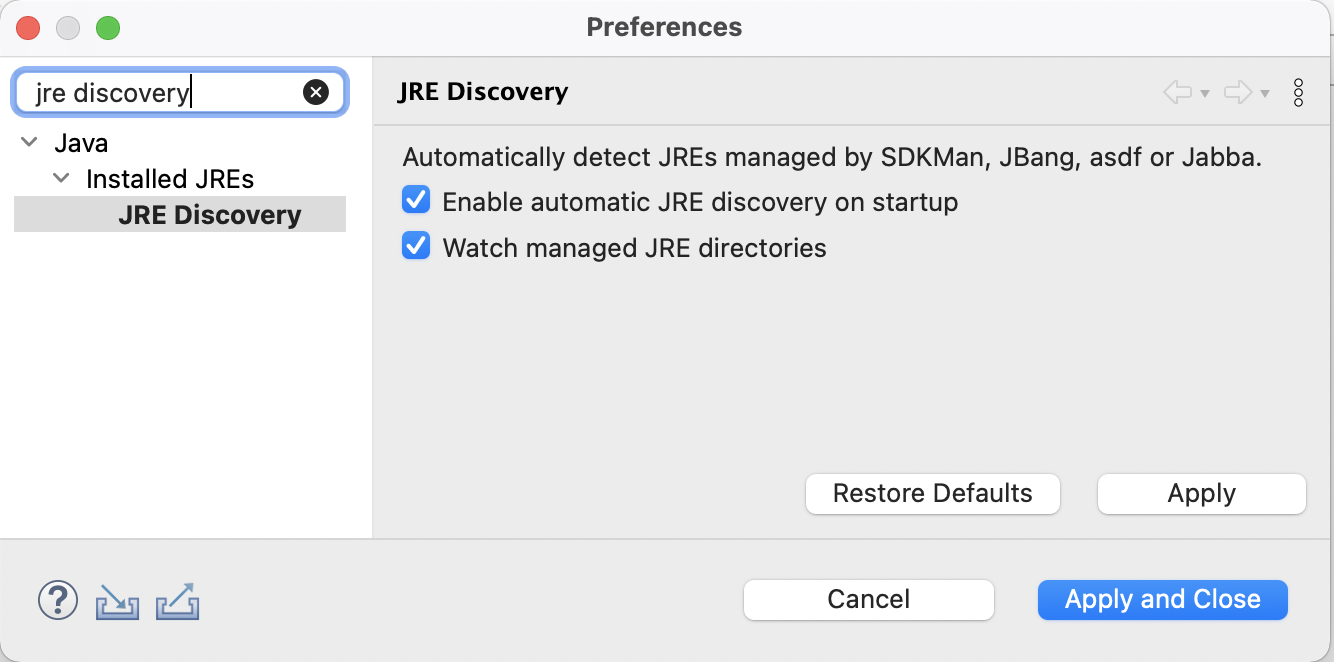
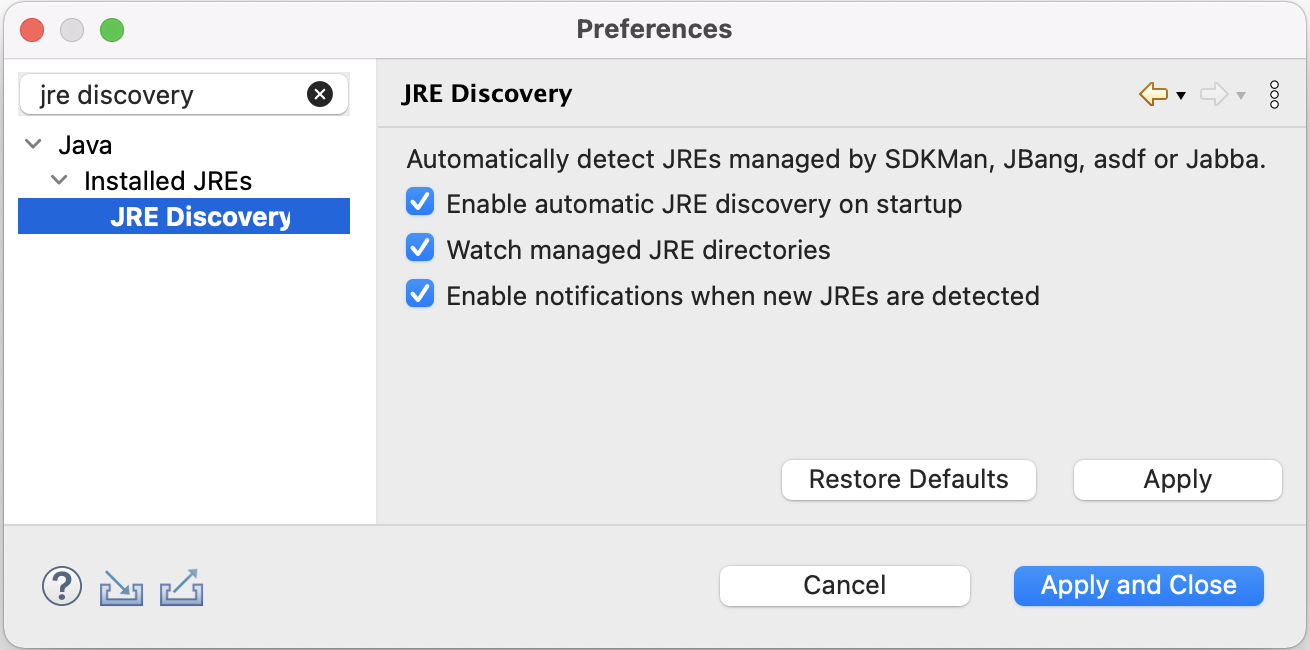
Add preference to display notifications. See #1

diff --git a/io.sidespin.jre.discovery.ui/src/main/java/io/sidespin/eclipse/jre/discovery/ui/internal/ManagedVMNotificationAggregatorJob.java b/io.sidespin.jre.discovery.ui/src/main/java/io/sidespin/eclipse/jre/discovery/ui/internal/ManagedVMNotificationAggregatorJob.java
@@ -24,21 +24,27 @@ import org.eclipse.core.runtime.Status;
 import org.eclipse.core.runtime.jobs.Job;
 import org.eclipse.jdt.launching.IVMInstall;
 import org.eclipse.jface.notifications.AbstractNotificationPopup;
+import org.eclipse.jface.preference.IPreferenceStore;
 import org.eclipse.swt.SWT;
+import org.eclipse.swt.layout.GridLayout;
 import org.eclipse.swt.widgets.Composite;
 import org.eclipse.swt.widgets.Display;
 import org.eclipse.swt.widgets.Label;
 
+import io.sidespin.eclipse.jre.discovery.core.internal.preferences.JREDiscoveryPreferences;
+
 public class ManagedVMNotificationAggregatorJob extends Job {
 
-	// private static final String JAVA_VM_PREFERENCES_PAGE_ID =
-	// "org.eclipse.jdt.debug.ui.preferences.VMPreferencePage";
+	//private static final String JAVA_VM_PREFERENCES_PAGE_ID = "org.eclipse.jdt.debug.ui.preferences.VMPreferencePage";
 
 	private static final long DELAY = 1000;
 	private final Set<IVMInstall> notifications = new LinkedHashSet<>();
 
-	public ManagedVMNotificationAggregatorJob() {
+	private IPreferenceStore preferenceStore;
+
+	public ManagedVMNotificationAggregatorJob(IPreferenceStore preferenceStore ) {
 		super("Managed VM notification aggregator");
+		this.preferenceStore = preferenceStore;
 	}
 
 	@Override
@@ -54,7 +60,9 @@ public class ManagedVMNotificationAggregatorJob extends Job {
 			currentQueue = new LinkedHashSet<>(this.notifications);
 			notifications.clear();
 		}
-		if (currentQueue.isEmpty()) {
+		boolean enabled = preferenceStore.getBoolean(JREDiscoveryPreferences.NOTIFICATIONS_ENABLED_KEY);
+		
+		if (!enabled || currentQueue.isEmpty()) {
 			return Status.OK_STATUS;
 		}
 
@@ -103,6 +111,8 @@ public class ManagedVMNotificationAggregatorJob extends Job {
 
 		@Override
 		protected void createContentArea(Composite parent) {
+			parent.setLayout(new GridLayout(1, false));
+
 			Label label = new Label(parent, SWT.WRAP);
 			if (vms.size() > 1) {
 				label.setText(vms.size() + " new Java VMs were automatically added.");
@@ -110,11 +120,10 @@ public class ManagedVMNotificationAggregatorJob extends Job {
 				var name = vms.iterator().next().getName();
 				label.setText(name + " was automatically added.");
 			}
-			// label.addSelectionListener(SelectionListener.widgetSelectedAdapter(e -> {
-			// PreferencesUtil.createPreferenceDialogOn(Display.getDefault().getActiveShell(),
-			// JAVA_VM_PREFERENCES_PAGE_ID, new String[] { JAVA_VM_PREFERENCES_PAGE_ID },
-			// null).open();
-			// }));
+//			label.addSelectionListener(SelectionListener.widgetSelectedAdapter(e -> {
+//				PreferencesUtil.createPreferenceDialogOn(getShell(),
+//						JAVA_VM_PREFERENCES_PAGE_ID, new String[] { JAVA_VM_PREFERENCES_PAGE_ID }, null).open();
+//			}));
 		}
 	}
 }

diff --git a/io.sidespin.jre.discovery.core/src/main/java/io/sidespin/eclipse/jre/discovery/core/internal/preferences/JREDiscoveryPreferenceInitializer.java b/io.sidespin.jre.discovery.core/src/main/java/io/sidespin/eclipse/jre/discovery/core/internal/preferences/JREDiscoveryPreferenceInitializer.java
@@ -15,7 +15,6 @@
 package io.sidespin.eclipse.jre.discovery.core.internal.preferences;
 
 import org.eclipse.core.runtime.preferences.AbstractPreferenceInitializer;
-import org.eclipse.core.runtime.preferences.DefaultScope;
 import org.eclipse.core.runtime.preferences.IEclipsePreferences;
 import org.eclipse.core.runtime.preferences.InstanceScope;
 
@@ -32,5 +31,6 @@ public class JREDiscoveryPreferenceInitializer extends AbstractPreferenceInitial
 	    IEclipsePreferences store = InstanceScope.INSTANCE.getNode(Constants.PLUGIN_ID);
 	    store.putBoolean(JREDiscoveryPreferences.ENABLED_ON_STARTUP_KEY, true);
 	    store.putBoolean(JREDiscoveryPreferences.WATCH_JRE_DIRECTORIES_KEY, true);
+	    store.putBoolean(JREDiscoveryPreferences.NOTIFICATIONS_ENABLED_KEY, true);
 	  }
 }

diff --git a/io.sidespin.jre.discovery.core/src/main/java/io/sidespin/eclipse/jre/discovery/core/internal/VMDetectorManager.java b/io.sidespin.jre.discovery.core/src/main/java/io/sidespin/eclipse/jre/discovery/core/internal/VMDetectorManager.java
@@ -25,10 +25,8 @@ import org.eclipse.core.runtime.Assert;
 import org.eclipse.core.runtime.IProgressMonitor;
 import org.eclipse.core.runtime.NullProgressMonitor;
 import org.eclipse.core.runtime.SubMonitor;
-import org.eclipse.core.runtime.preferences.IEclipsePreferences;
 import org.eclipse.core.runtime.preferences.IEclipsePreferences.IPreferenceChangeListener;
 import org.eclipse.core.runtime.preferences.IEclipsePreferences.PreferenceChangeEvent;
-import org.eclipse.core.runtime.preferences.InstanceScope;
 
 import io.sidespin.eclipse.jre.discovery.core.IManagedVMDetector;
 import io.sidespin.eclipse.jre.discovery.core.IManagedVMWatcher;

diff --git a/io.sidespin.jre.discovery.ui/src/main/java/io/sidespin/eclipse/jre/discovery/ui/internal/ManagedVMUIActivator.java b/io.sidespin.jre.discovery.ui/src/main/java/io/sidespin/eclipse/jre/discovery/ui/internal/ManagedVMUIActivator.java
@@ -34,7 +34,7 @@ public class ManagedVMUIActivator implements BundleActivator {
   public void start(BundleContext context) throws Exception {
 	//HACK trigger the core plugin activation by calling a method from its activator
     System.err.println("Starting " + ManagedVMCorePlugin.getUniqueIdentifier());
-    notificationJob = new ManagedVMNotificationAggregatorJob();
+    notificationJob = new ManagedVMNotificationAggregatorJob(getPreferenceStore());
     notificationCenter = new ManagedVMNotificationCenter(notificationJob);
     // HACK: trigger VM Initialization before registering the
     // VMInstallChangedListener,

diff --git a/io.sidespin.jre.discovery.ui/src/main/java/io/sidespin/eclipse/jre/discovery/ui/internal/preferences/JREDiscoveryPreferencePage.java b/io.sidespin.jre.discovery.ui/src/main/java/io/sidespin/eclipse/jre/discovery/ui/internal/preferences/JREDiscoveryPreferencePage.java
@@ -46,6 +46,11 @@ public class JREDiscoveryPreferencePage extends FieldEditorPreferencePage implem
     		JREDiscoveryPreferences.WATCH_JRE_DIRECTORIES_KEY, "Watch managed JRE directories",
         getFieldEditorParent());
     addField(watchDirectories);
+    
+    BooleanFieldEditor displayNotifications = new BooleanFieldEditor(
+    		JREDiscoveryPreferences.NOTIFICATIONS_ENABLED_KEY, "Enable notifications when new JREs are detected",
+        getFieldEditorParent());
+    addField(displayNotifications);
   }
 
 }

diff --git a/io.sidespin.jre.discovery.core/src/main/java/io/sidespin/eclipse/jre/discovery/core/internal/UpdateVMsJob.java b/io.sidespin.jre.discovery.core/src/main/java/io/sidespin/eclipse/jre/discovery/core/internal/UpdateVMsJob.java
@@ -30,7 +30,6 @@ public class UpdateVMsJob extends Job {
 		super("JDK detector");
 		this.vmService = vmService;
 		this.detectorManager = detectorManager;
-
 	}
 
 	@Override
@@ -45,7 +44,7 @@ public class UpdateVMsJob extends Job {
 				vmService.addVM(vm, sub.split(1));
 				sub.worked(1);
 			} catch (Exception e) {
-				return Status.error("Failed to add " + vm, e);
+				return Status.error("Failed to add " + vm+"!", e);
 			}
 		}
 		return Status.OK_STATUS;

diff --git a/io.sidespin.jre.discovery.core/src/main/java/io/sidespin/eclipse/jre/discovery/core/internal/preferences/JREDiscoveryPreferences.java b/io.sidespin.jre.discovery.core/src/main/java/io/sidespin/eclipse/jre/discovery/core/internal/preferences/JREDiscoveryPreferences.java
@@ -21,6 +21,8 @@ public class JREDiscoveryPreferences {
 
   public static final String WATCH_JRE_DIRECTORIES_KEY = Constants.PLUGIN_ID + ".watchJREDirectories";
 
+  public static final String NOTIFICATIONS_ENABLED_KEY = Constants.PLUGIN_ID + ".notificationsEnabled";;
+
   private static final JREDiscoveryPreferences INSTANCE = new JREDiscoveryPreferences();
 
   private JREDiscoveryPreferences() {

diff --git a/io.sidespin.jre.discovery.core/src/main/java/io/sidespin/eclipse/jre/discovery/core/internal/VMWatcherService.java b/io.sidespin.jre.discovery.core/src/main/java/io/sidespin/eclipse/jre/discovery/core/internal/VMWatcherService.java
@@ -27,7 +27,6 @@ import java.nio.file.WatchService;
 import org.eclipse.core.runtime.IProgressMonitor;
 import org.eclipse.core.runtime.IStatus;
 import org.eclipse.core.runtime.ListenerList;
-import org.eclipse.core.runtime.NullProgressMonitor;
 import org.eclipse.core.runtime.Status;
 import org.eclipse.core.runtime.jobs.Job;
 

diff --git a/io.sidespin.jre.discovery.core/src/main/java/io/sidespin/eclipse/jre/discovery/core/internal/ManagedVMCorePlugin.java b/io.sidespin.jre.discovery.core/src/main/java/io/sidespin/eclipse/jre/discovery/core/internal/ManagedVMCorePlugin.java
@@ -14,7 +14,6 @@
 package io.sidespin.eclipse.jre.discovery.core.internal;
 
 import org.eclipse.core.runtime.Assert;
-import org.eclipse.core.runtime.Platform;
 import org.eclipse.core.runtime.Plugin;
 import org.eclipse.core.runtime.preferences.IEclipsePreferences;
 import org.eclipse.core.runtime.preferences.InstanceScope;

diff --git a/io.sidespin.jre.discovery.ui/src/main/java/io/sidespin/eclipse/jre/discovery/ui/internal/ManagedVMNotificationCenter.java b/io.sidespin.jre.discovery.ui/src/main/java/io/sidespin/eclipse/jre/discovery/ui/internal/ManagedVMNotificationCenter.java
@@ -45,5 +45,7 @@ public class ManagedVMNotificationCenter implements IVMInstallChangedListener {
 	@Override
 	public void vmRemoved(IVMInstall vm) {
 	}
+	
+	
 
 }
